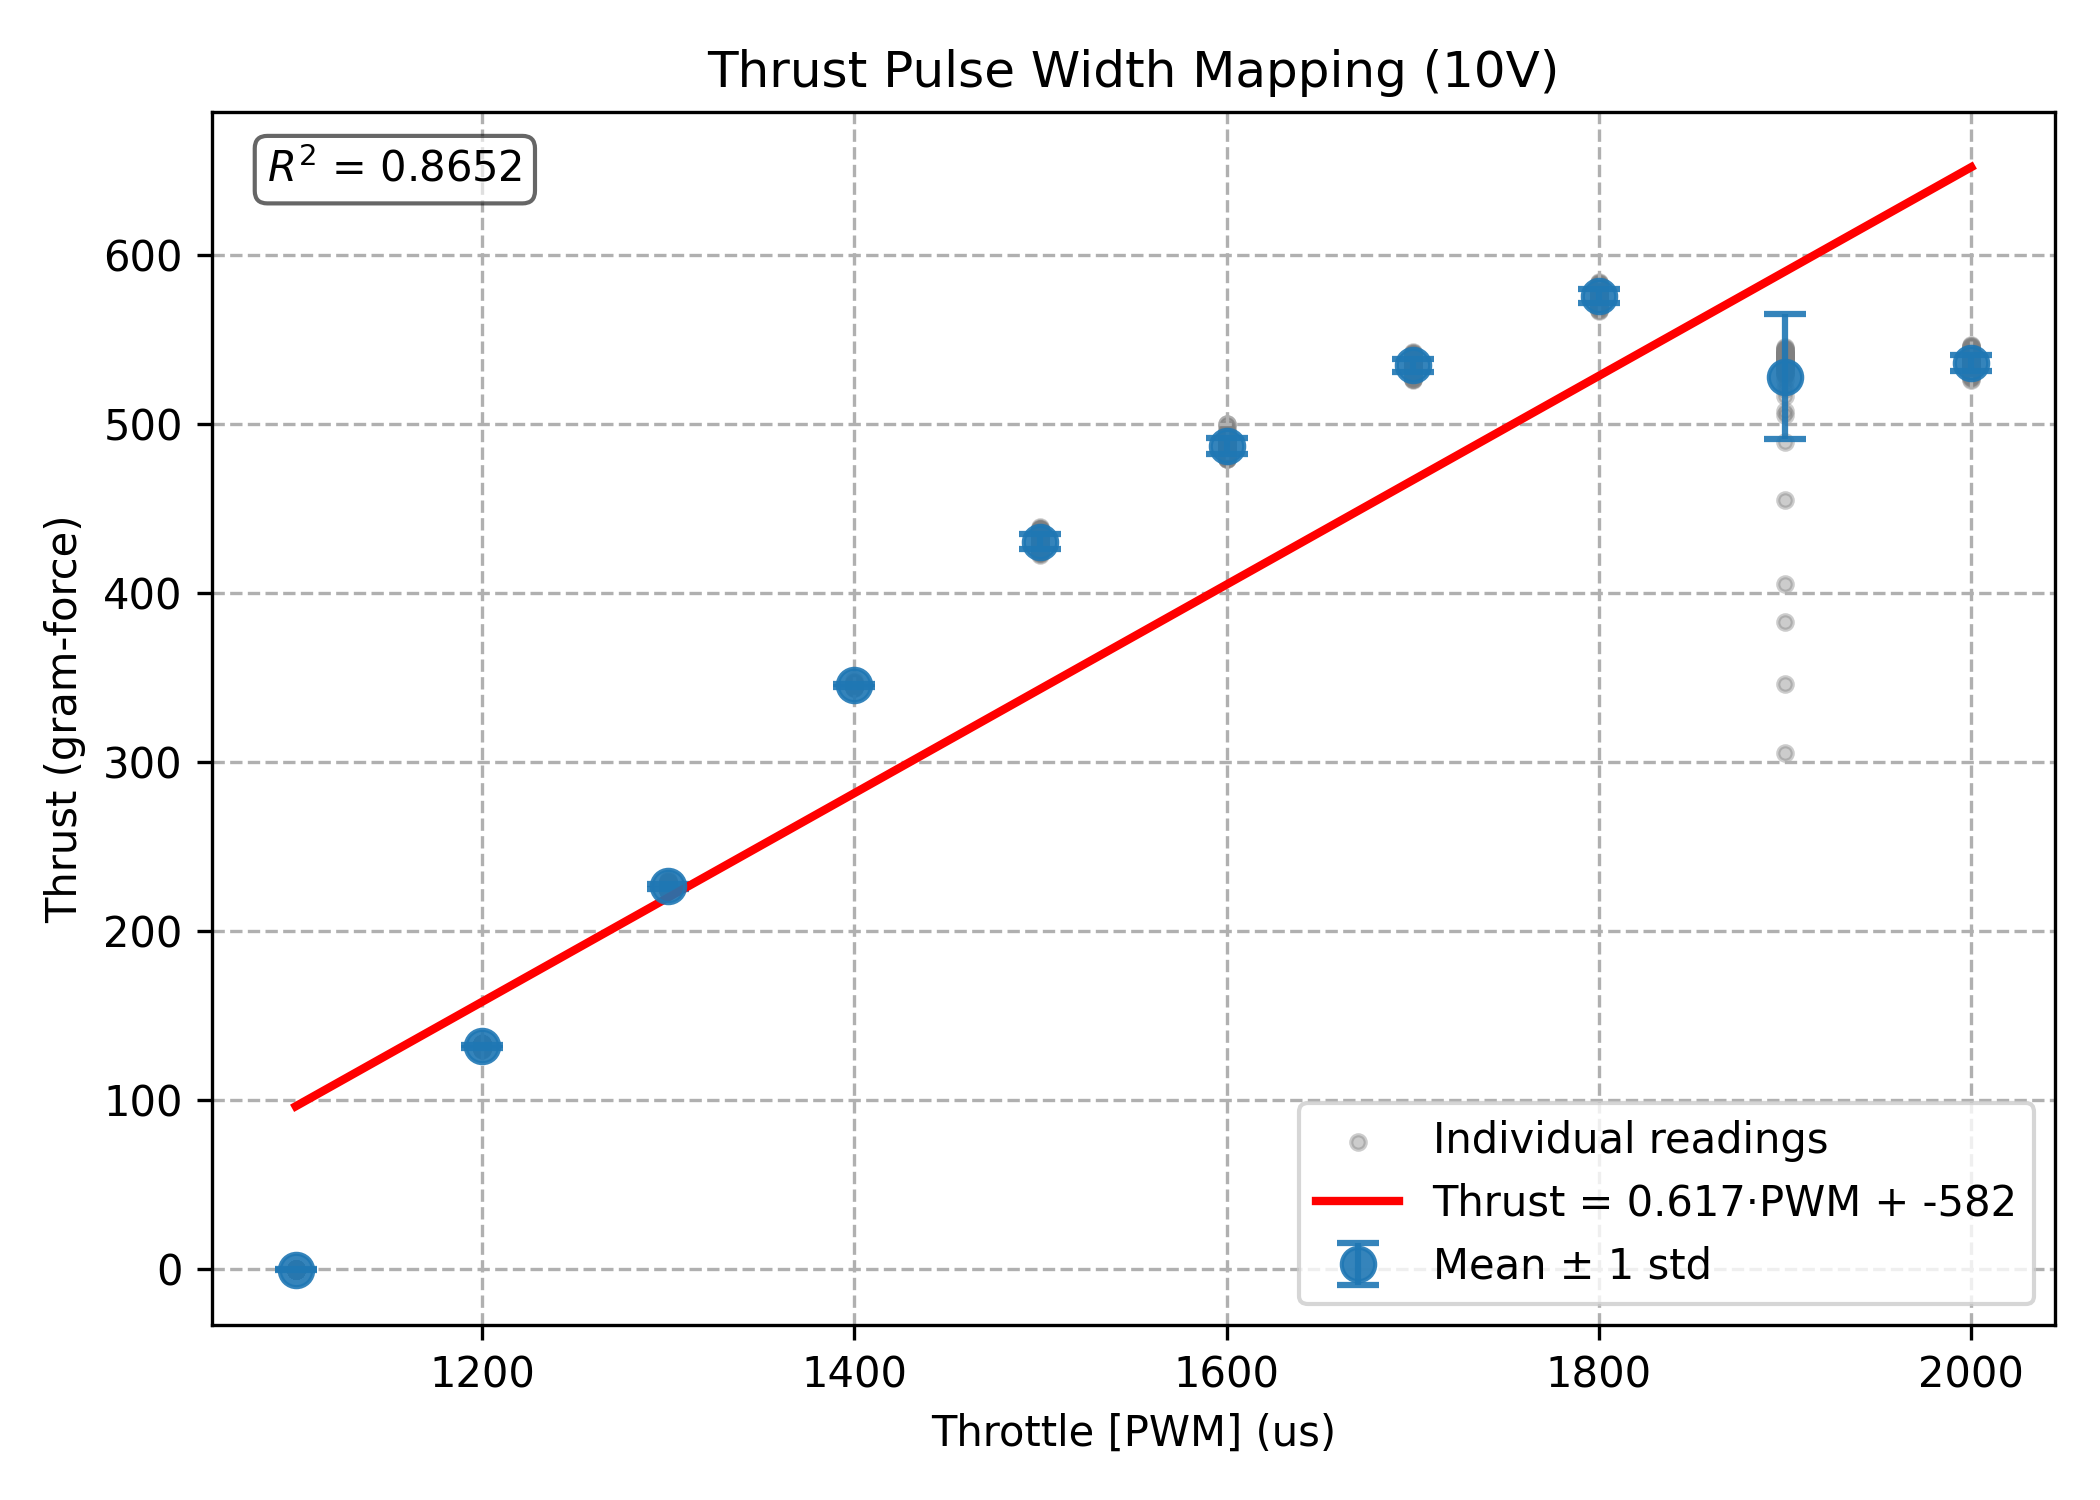
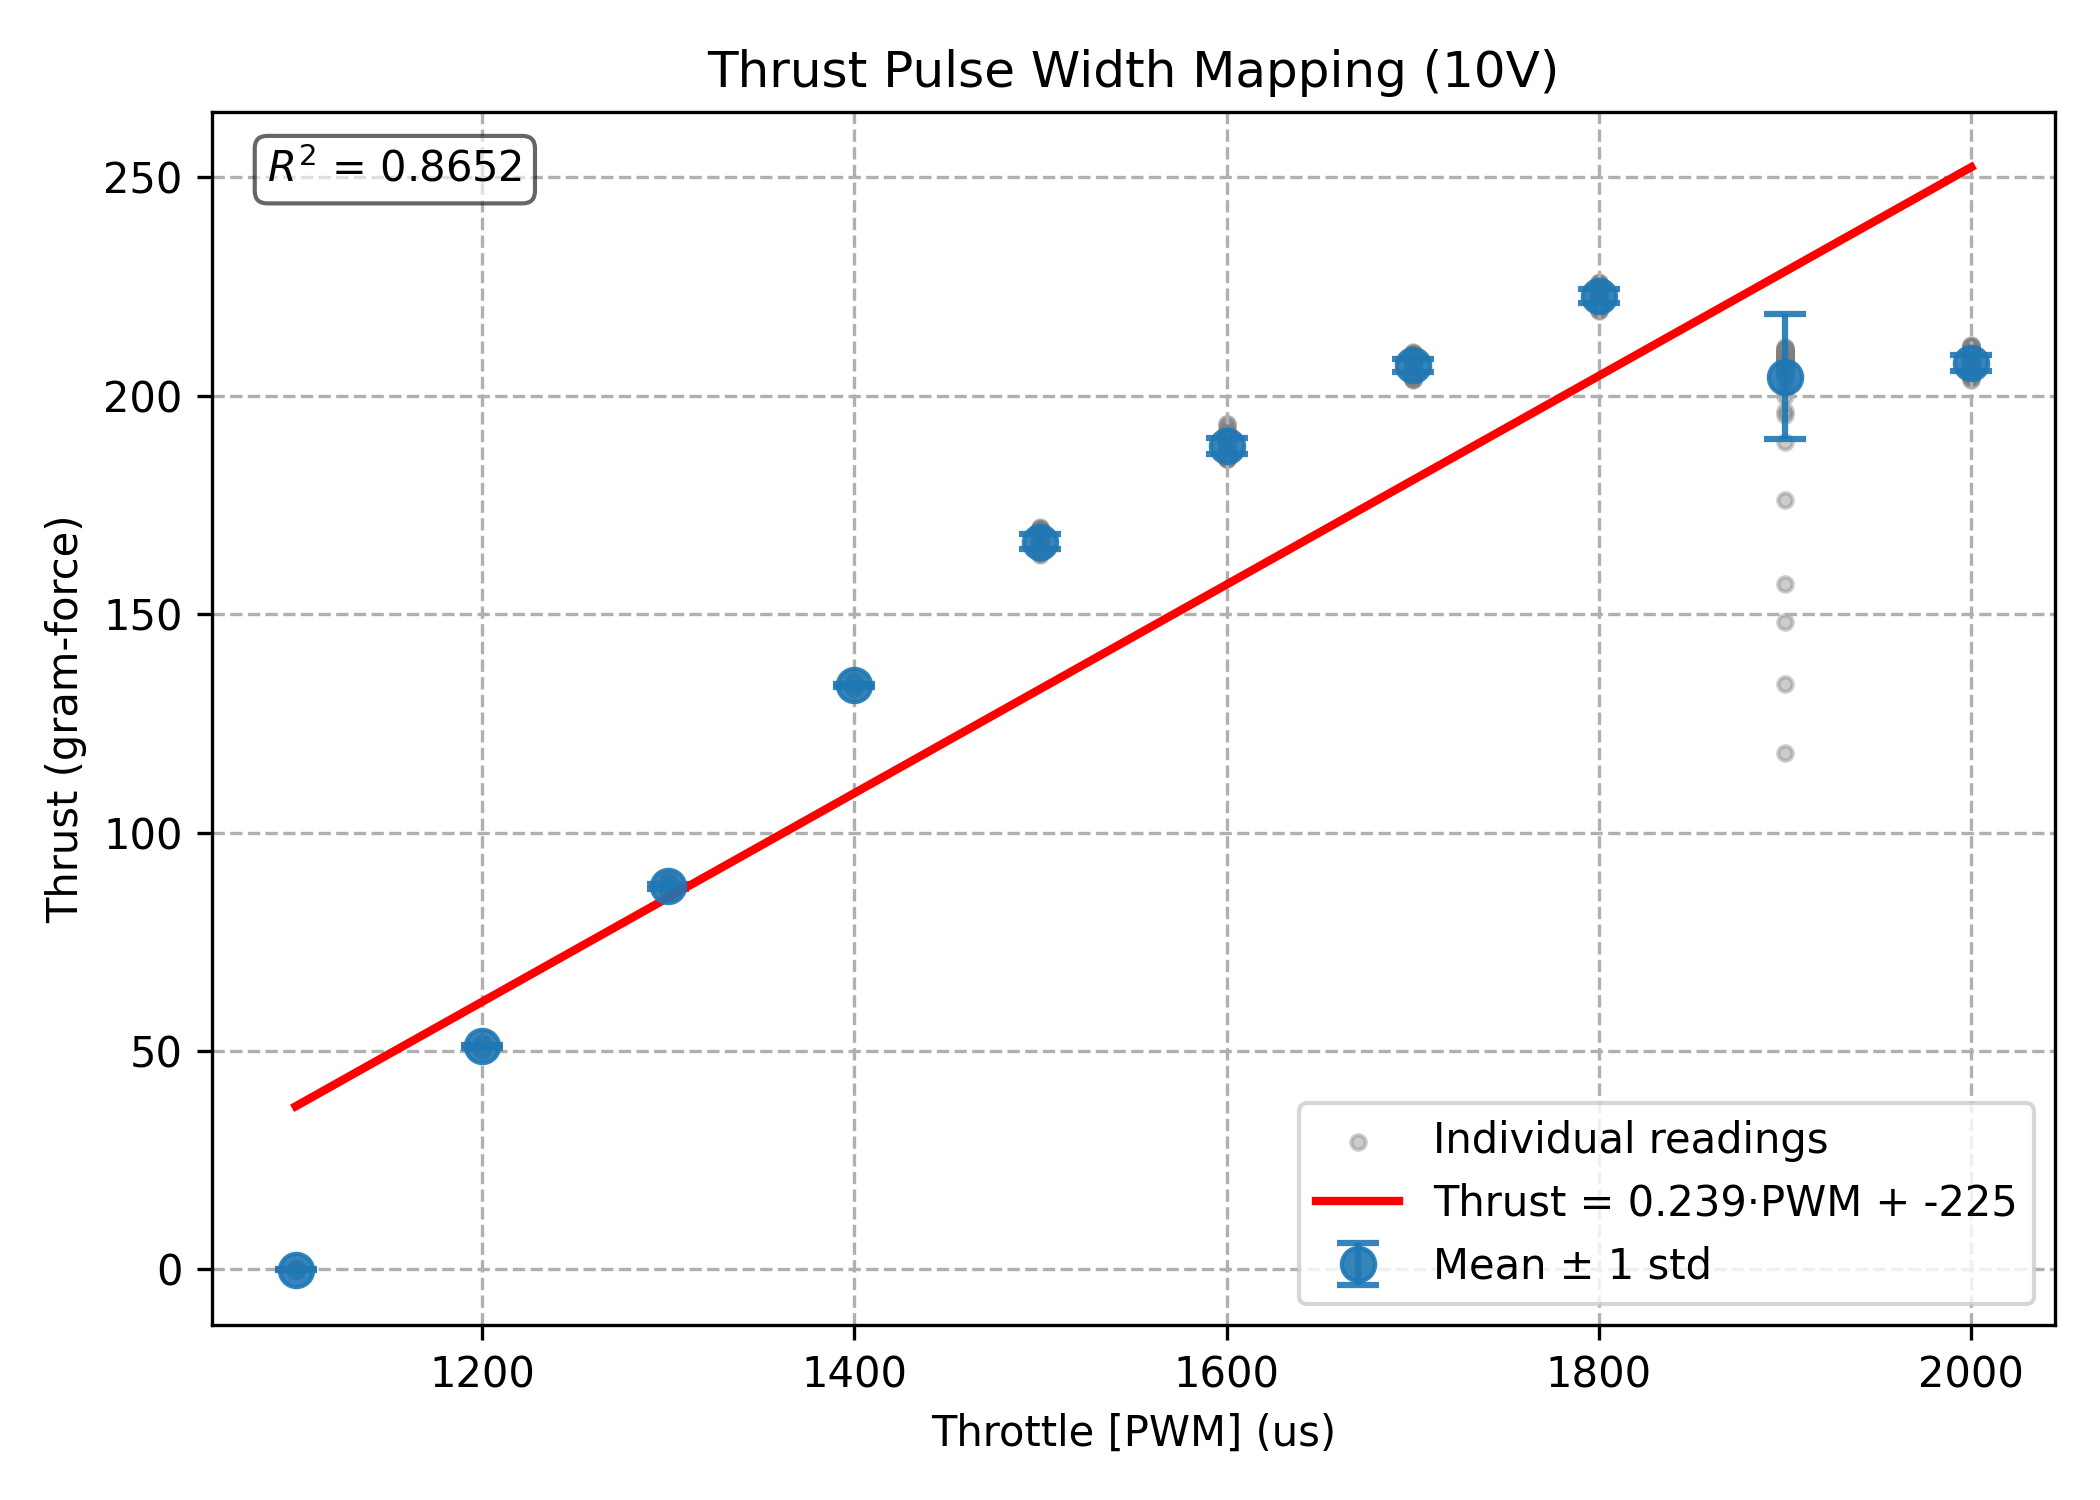
Refactor file paths for calibration and thrust data; delete unused LoadCellActivation.py

diff --git a/Main/ThrustRegression.py b/Main/ThrustRegression.py
@@ -4,13 +4,13 @@ import matplotlib.pyplot as plt
 
 # Load data: CSV where the first row = column headers = PWM values (microseconds)
 Voltage = 10  # voltage setting during data collection
-csv_path = f"Prop_{Voltage}VThrusts.csv"   # <- change this to your CSV if needed
+csv_path = f"Main\\Prop_{Voltage}VThrusts.csv"   # <- change this to your CSV if needed
 df = pd.read_csv(csv_path)
 
 # Column names are strings; convert them to floats to get numeric PWM
 PWM = df.columns.astype(float)   # e.g., ['50','100'] -> array([50., 100.])
 
-readings_df = df.apply(pd.to_numeric) * (15.5 / 6)
+readings_df = df.apply(pd.to_numeric) # * (15.5 / 6) # Arm Correction Error Compensation for 10V data
 
 means  = readings_df.mean(axis=0).to_numpy()               
 stds   = readings_df.std(axis=0, ddof=1).to_numpy()        
@@ -110,5 +110,5 @@ plt.tight_layout()
 # also add R^2 as text on the plot (top-left), then save a second copy
 plt.gca().text(0.03, 0.97, f"$R^2$ = {r2_rb:.4f}", transform=plt.gca().transAxes,
                fontsize=10, verticalalignment='top', bbox=dict(boxstyle='round', facecolor='white', alpha=0.6))
-plt.savefig("ThrustPlot.png", dpi=300)
+plt.savefig("Main\\ThrustPlot.png", dpi=300)
 plt.close()

diff --git a/CalibrationAndTests/LoadCellRegression.py b/CalibrationAndTests/LoadCellRegression.py
@@ -3,7 +3,7 @@ import pandas as pd
 import matplotlib.pyplot as plt
 
 # === Load CSV (assumes first row are column headers = weights in grams) ===
-path = "CalibrationReadings.csv"   
+path = "CalibrationAndTests\\CalibrationReadings.csv"   
 df = pd.read_csv(path)
 
 # Convert header strings to float weights
@@ -52,4 +52,4 @@ plt.tight_layout()
 plt.gca().text(0.03, 0.97, f"$R^2$ = {r2:.4f}", transform=plt.gca().transAxes,
                fontsize=10, verticalalignment='top', bbox=dict(boxstyle='round', facecolor='white', alpha=0.6))
 # Save plot to file
-plt.savefig("Calibration.png", dpi=300)
+plt.savefig("CalibrationAndTests\\Calibration.png", dpi=300)

diff --git a/CalibrationAndTests/LoadCellCalibration.py b/CalibrationAndTests/LoadCellCalibration.py
@@ -7,7 +7,7 @@ def pounds_to_grams(pounds):
     return pounds * 453.592
 
 # CSV file
-filename = 'CalibrationReadings.csv'
+filename = 'CalibrationAndTests\\CalibrationReadings.csv'
 
 # Convert a number to a string and use it as the weight_label
 

diff --git a/CalibrationAndTests/FoundationCode.py b/CalibrationAndTests/FoundationCode.py
@@ -19,7 +19,7 @@ def has_internet(host="8.8.8.8", port=53, timeout=1): # Check internet connectiv
         return False
 
 # CSV file
-filename = 'thrusts.csv'
+filename = 'CalibrationAndTests\\thrusts.csv'
 
 #  PWM label
 PWM = 1300
